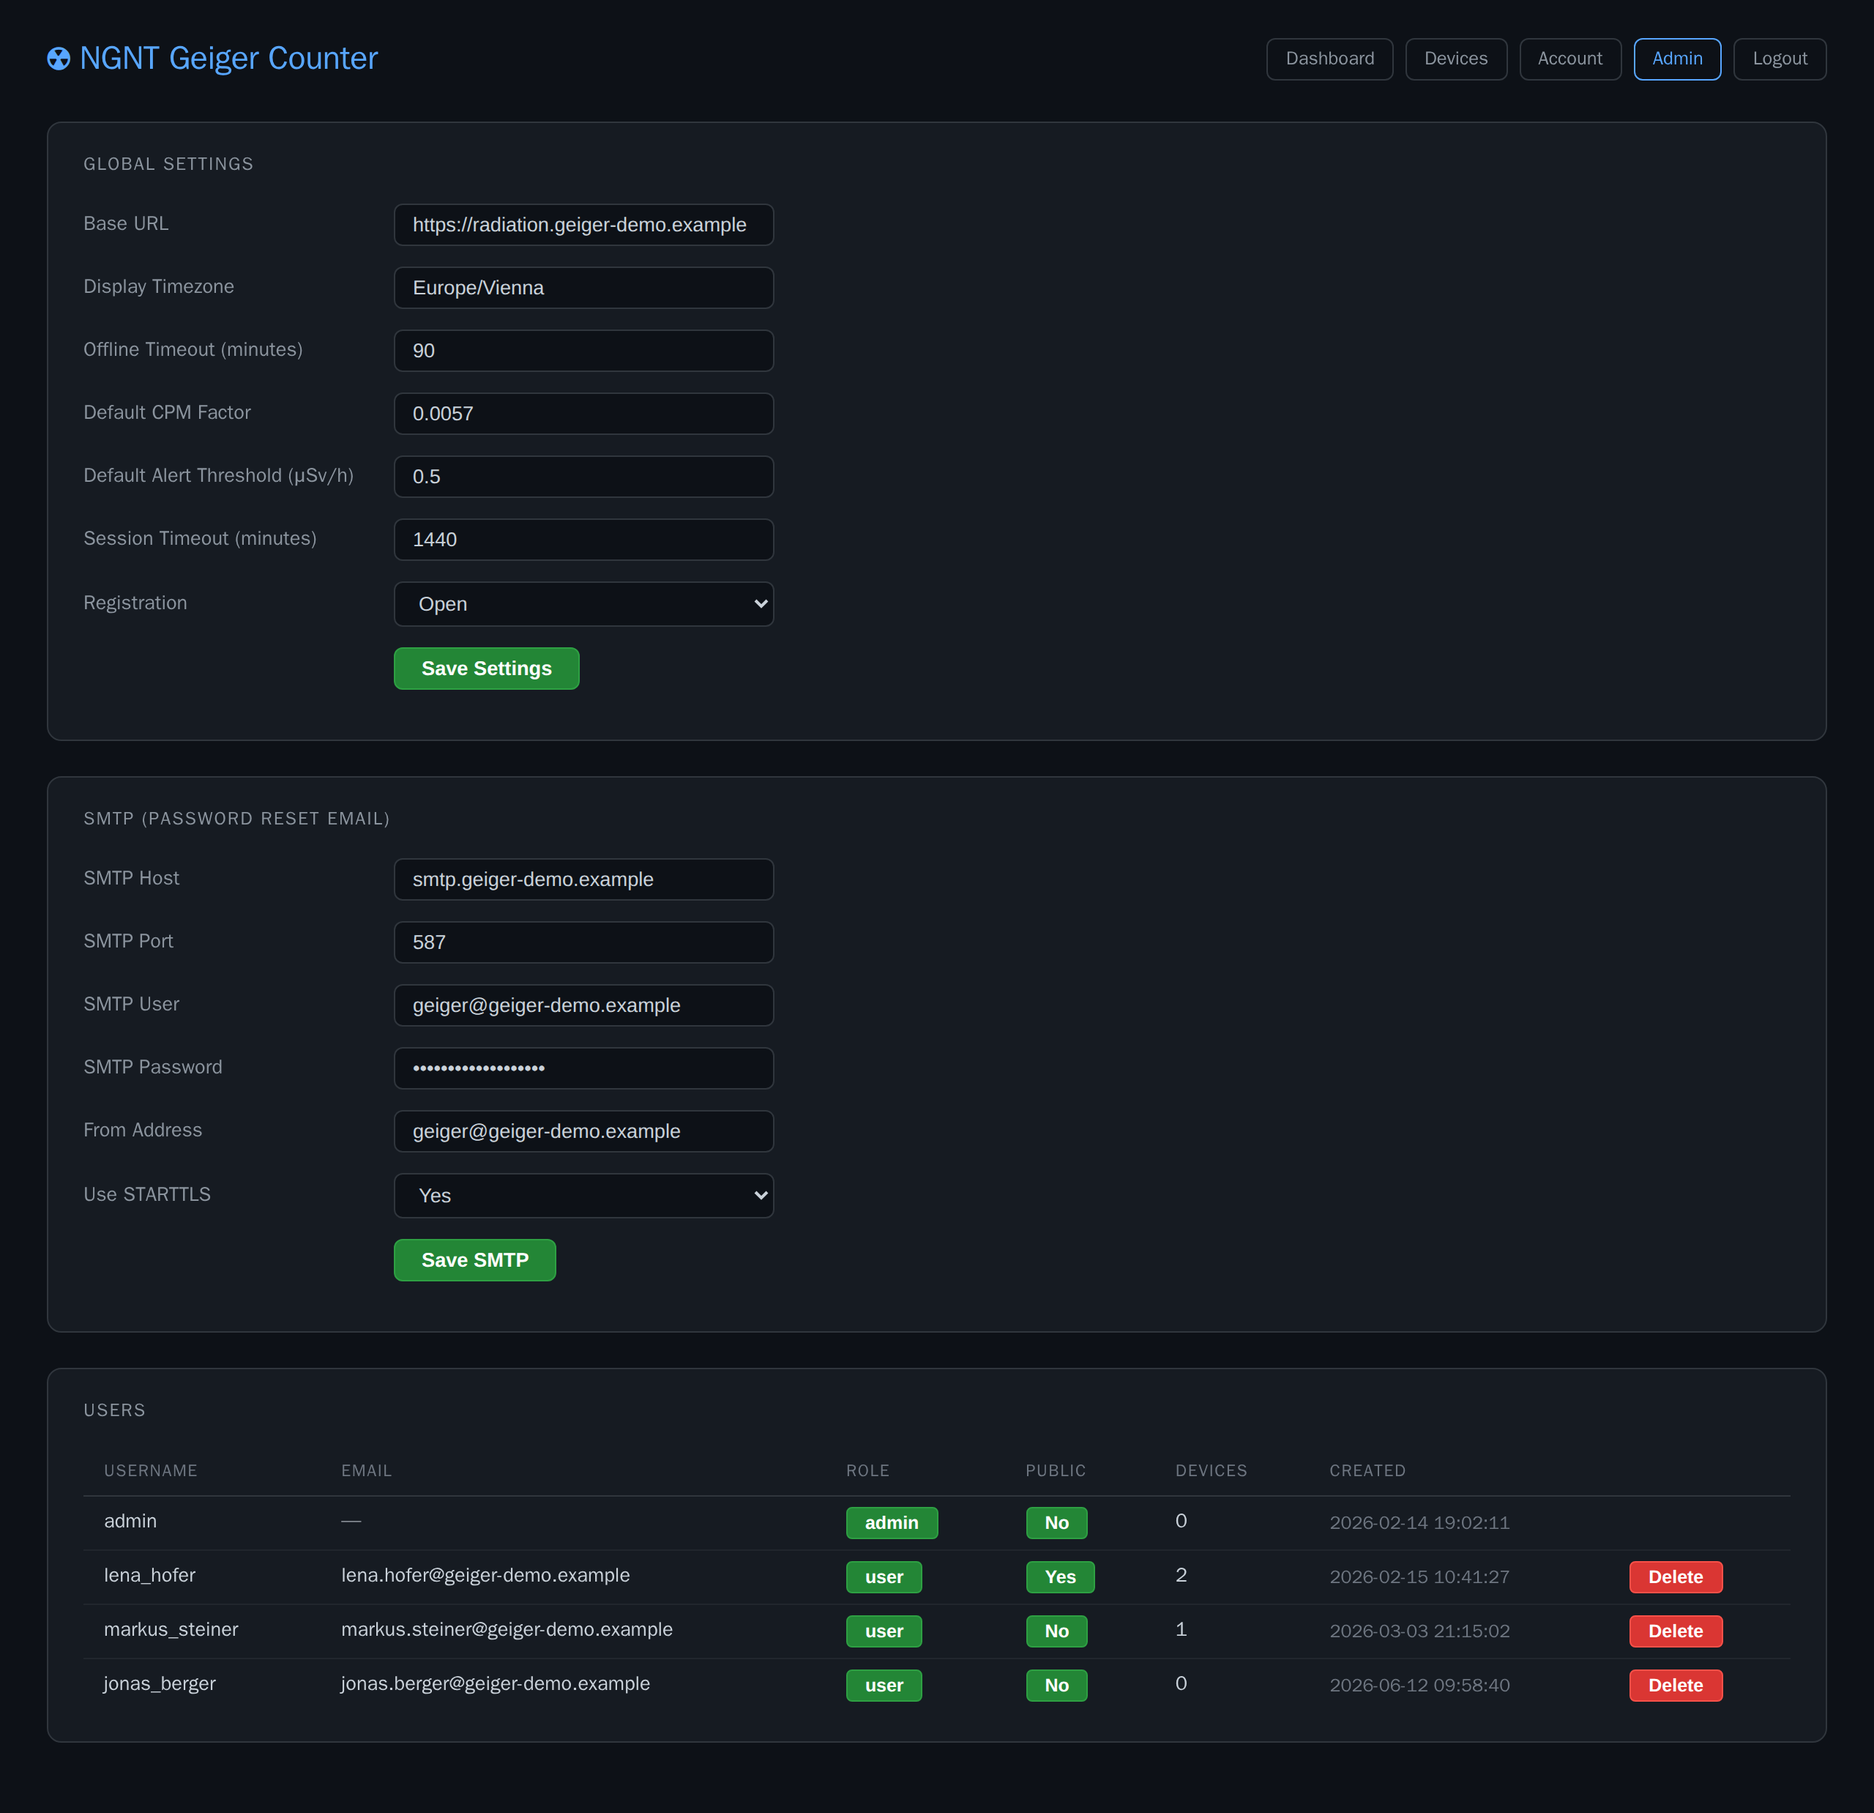
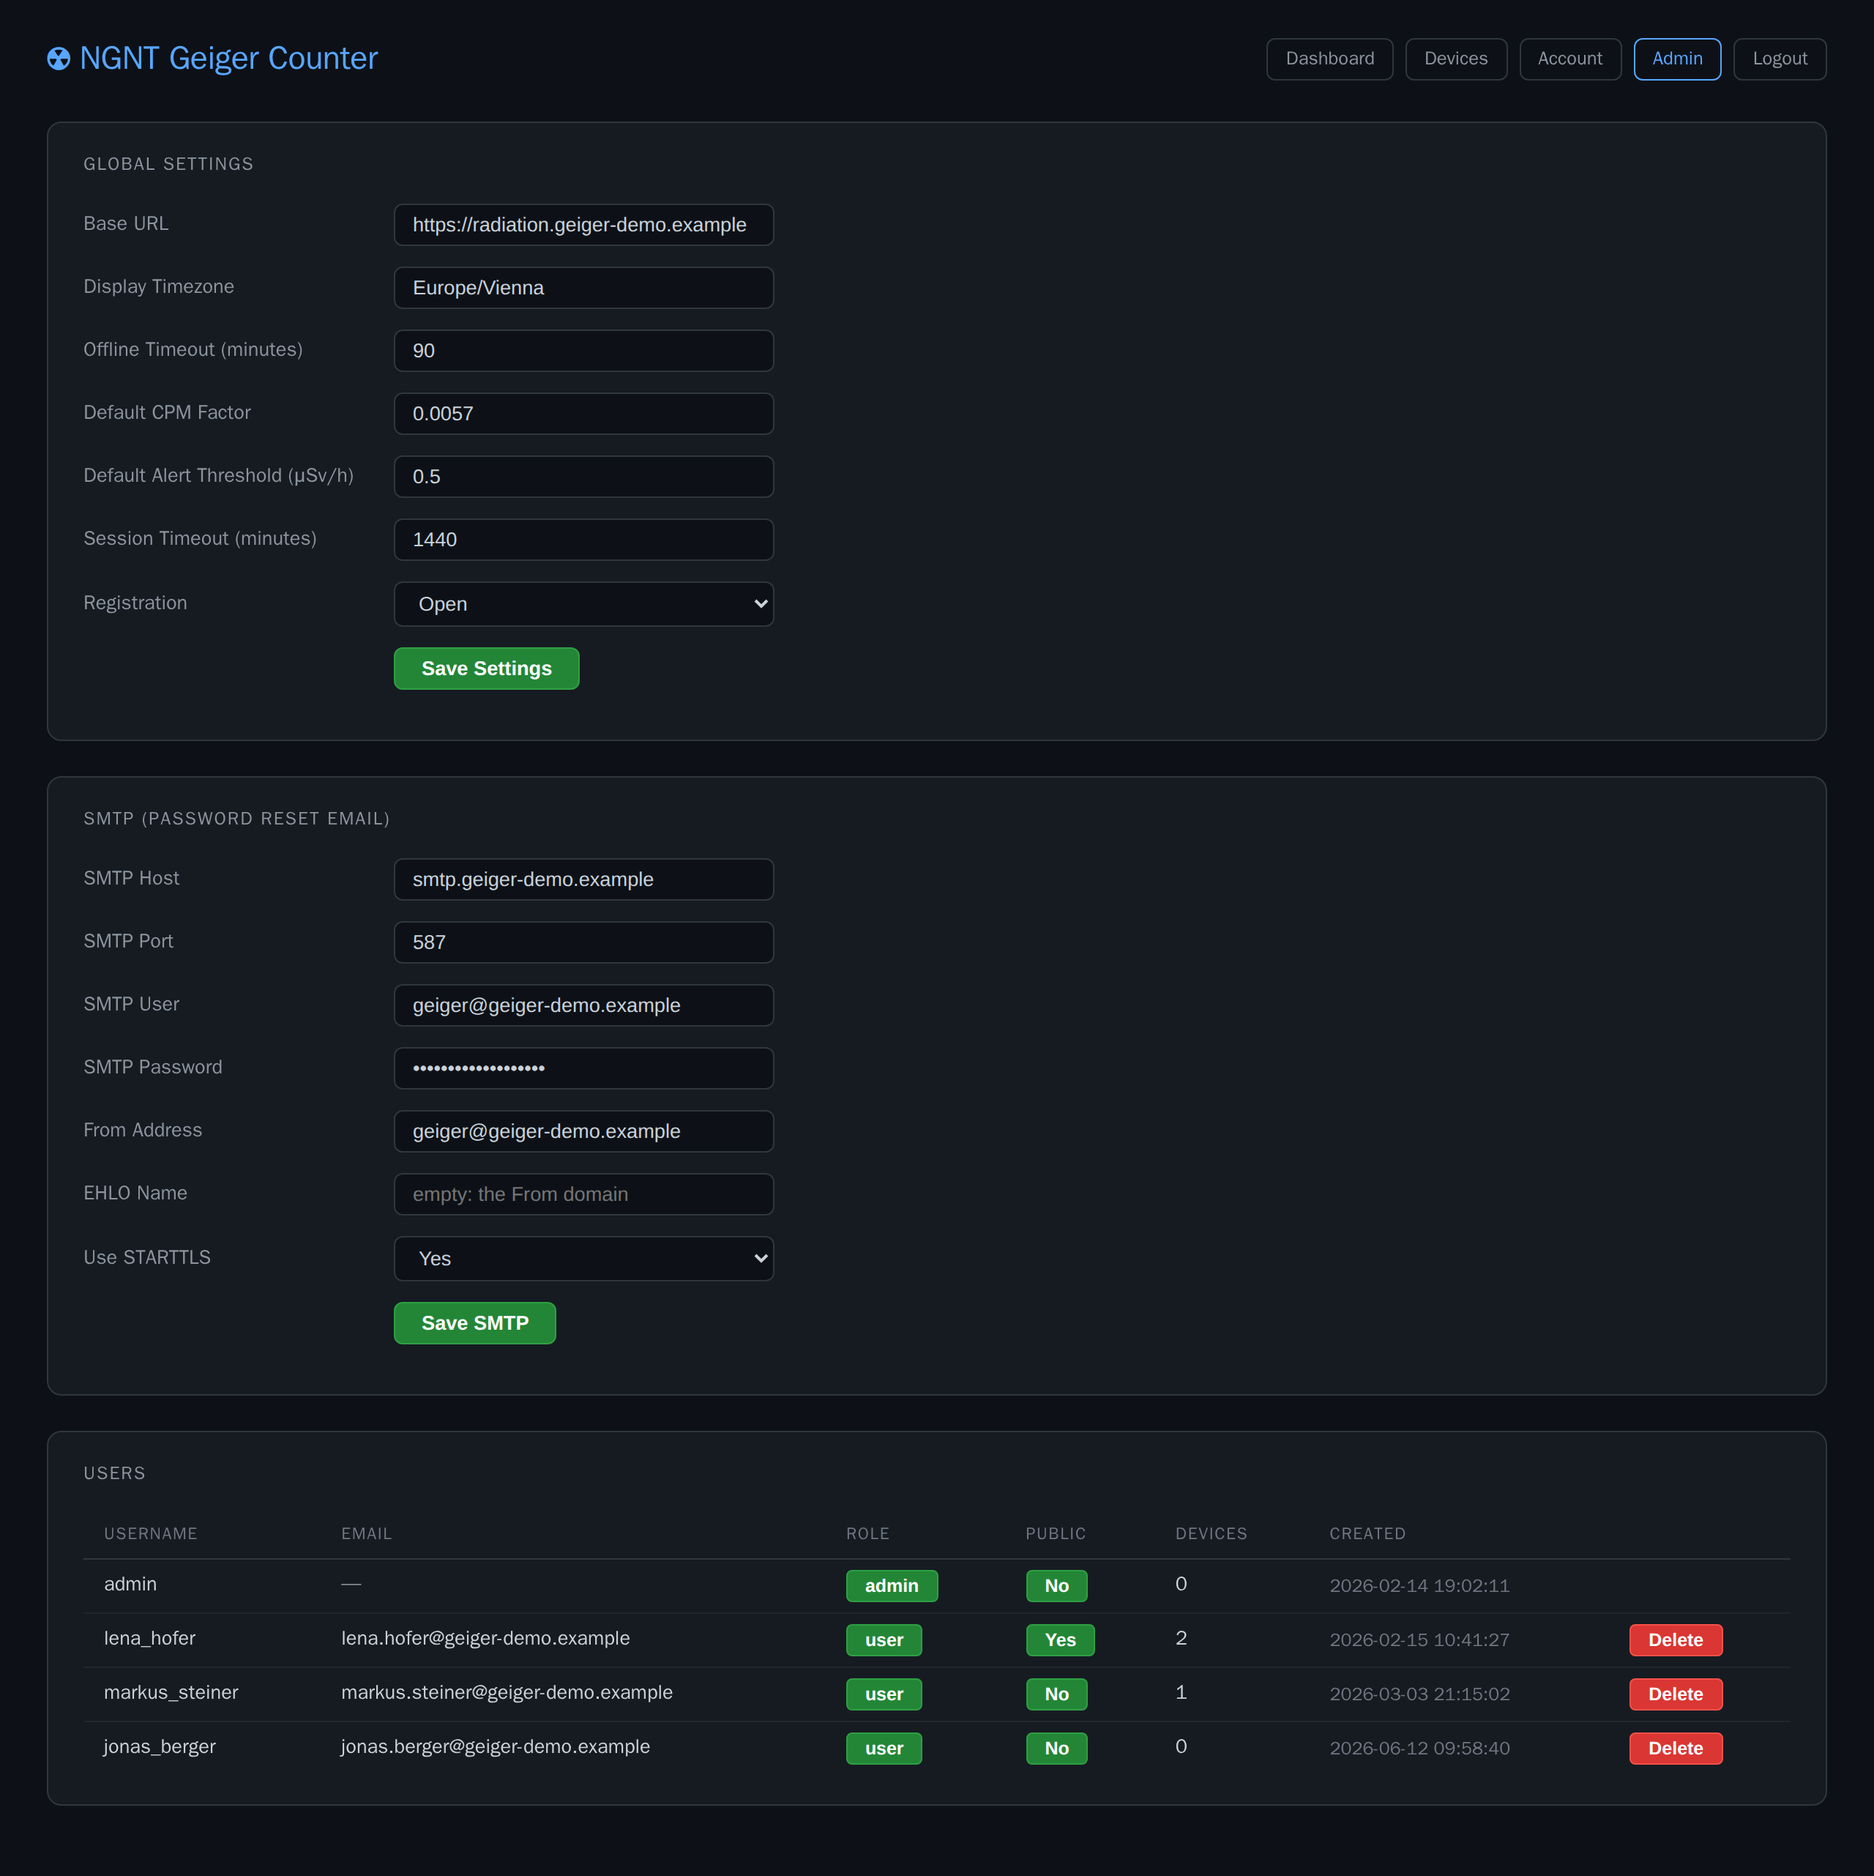
Move the EHLO name from .env to the admin page's SMTP settings
SMTP_EHLO_NAME was the only mail setting outside the database. It is now
the setting smtp_ehlo_name, an EHLO Name field under SMTP on the admin
page (empty: the From domain; letters, digits, dots and hyphens only, so
nothing can be smuggled into the EHLO line). dbinit.sql seeds the row for
a new database, migrate_schema() adds it to an existing one with INSERT
IGNORE. The e2e setup seeds it with the other SMTP settings; the admin
screenshot shows the field.

diff --git a/ngnt-geiger-dockerized/e2e/tests/global.spec.ts b/ngnt-geiger-dockerized/e2e/tests/global.spec.ts
@@ -131,9 +131,12 @@ test('SMTP settings are saved and shown again, the password masked', async ({ op
   )
   await page.getByLabel('SMTP User').fill('mailer')
   await page.getByLabel('SMTP Password').fill('e2e-smtp-secret')
+  await expect(page.getByLabel('EHLO Name')).toHaveAttribute('placeholder', 'empty: the From domain')
+  await page.getByLabel('EHLO Name').fill('mx.geiger-e2e.example')
   await page.getByRole('button', { name: 'Save SMTP' }).click()
   await expect(flash(page)).toHaveText('SMTP settings saved.')
   await expect(page.getByLabel('SMTP User')).toHaveValue('mailer')
+  await expect(page.getByLabel('EHLO Name')).toHaveValue('mx.geiger-e2e.example')
   await expect(page.getByLabel('SMTP Password')).toHaveAttribute('type', 'password')
   for (const [l, v] of Object.entries(before)) await expect(page.getByLabel(l)).toHaveValue(v)
   await expect(page.getByLabel('Use STARTTLS')).toHaveValue('0')
@@ -143,10 +146,16 @@ test('SMTP settings are saved and shown again, the password masked', async ({ op
   await page.getByRole('button', { name: 'Save SMTP' }).click()
   await expect(flash(page)).toHaveText('SMTP Port must be a port number (1-65535).')
   await expect(page.getByLabel('SMTP Port')).toHaveValue(before['SMTP Port'])
+  // It goes into the SMTP EHLO line as is.
+  await page.getByLabel('EHLO Name').fill('mx geiger')
+  await page.getByRole('button', { name: 'Save SMTP' }).click()
+  await expect(flash(page)).toHaveText('EHLO Name may only contain letters, digits, dots and hyphens.')
+  await expect(page.getByLabel('EHLO Name')).toHaveValue('mx.geiger-e2e.example')
 
   // Back to Mailpit without login (setup.ts).
   await page.getByLabel('SMTP User').fill('')
   await page.getByLabel('SMTP Password').fill('')
+  await page.getByLabel('EHLO Name').fill('')
   await page.getByRole('button', { name: 'Save SMTP' }).click()
   await expect(flash(page)).toHaveText('SMTP settings saved.')
 })

diff --git a/ngnt-geiger-dockerized/app/templates/admin.html b/ngnt-geiger-dockerized/app/templates/admin.html
@@ -87,6 +87,12 @@
                    value="{{ settings.get('smtp_from', '') }}">
         </div>
         <div class="form-row">
+            <label for="smtp-ehlo">EHLO Name</label>
+            <input type="text" id="smtp-ehlo" name="smtp_ehlo_name"
+                   value="{{ settings.get('smtp_ehlo_name', '') }}"
+                   placeholder="empty: the From domain">
+        </div>
+        <div class="form-row">
             <label for="smtp-tls">Use STARTTLS</label>
             <select id="smtp-tls" name="smtp_tls">
                 <option value="1"{% if settings.get('smtp_tls', '1') == '1' %} selected{% endif %}>Yes</option>

diff --git a/ngnt-geiger-dockerized/e2e/tests/setup.ts b/ngnt-geiger-dockerized/e2e/tests/setup.ts
@@ -45,6 +45,7 @@ test('admin password, SMTP to Mailpit, shared sessions', async () => {
     smtp_password: '',
     smtp_from: 'geiger@geiger-e2e.example',
     smtp_tls: '0',
+    smtp_ehlo_name: '',
   })
   expect(await smtp.text()).toContain('SMTP settings saved.')
   const settings = await postForm(admin, '/admin', {

diff --git a/ngnt-geiger-dockerized/app/app.py b/ngnt-geiger-dockerized/app/app.py
@@ -100,6 +100,8 @@ def migrate_schema():
         with db.cursor() as cur:
             # v3.0-3.5 wrote every device's MQTT password here in plaintext; nothing read it.
             cur.execute("ALTER TABLE devices DROP COLUMN IF EXISTS mqtt_password")
+            # Settings rows added after dbinit.sql seeded the database (it runs only on a new one).
+            cur.execute("INSERT IGNORE INTO settings (`key`, `value`) VALUES ('smtp_ehlo_name', '')")
     finally:
         db.close()
 
@@ -598,7 +600,7 @@ SETTINGS_KEYS = [
     'session_timeout_minutes',
 ]
 SMTP_KEYS = [
-    'smtp_host', 'smtp_port', 'smtp_user', 'smtp_password', 'smtp_from', 'smtp_tls',
+    'smtp_host', 'smtp_port', 'smtp_user', 'smtp_password', 'smtp_from', 'smtp_tls', 'smtp_ehlo_name',
 ]
 # The admin form's labels, for its error messages.
 SETTING_LABELS = {
@@ -607,7 +609,7 @@ SETTING_LABELS = {
     'default_alert_threshold': 'Default Alert Threshold (\u03bcSv/h)', 'registration_enabled': 'Registration',
     'session_timeout_minutes': 'Session Timeout (minutes)', 'smtp_host': 'SMTP Host', 'smtp_port': 'SMTP Port',
     'smtp_user': 'SMTP User', 'smtp_password': 'SMTP Password', 'smtp_from': 'From Address',
-    'smtp_tls': 'Use STARTTLS',
+    'smtp_tls': 'Use STARTTLS', 'smtp_ehlo_name': 'EHLO Name',
 }
 
 
@@ -621,6 +623,8 @@ def setting_error(key: str, val: str) -> str | None:
         return f'{label} must be a whole number of at least 1.'
     if key == 'smtp_port' and not (re.fullmatch('[0-9]+', val) and 1 <= int(val) <= 65535):
         return f'{label} must be a port number (1-65535).'
+    if key == 'smtp_ehlo_name' and not re.fullmatch('[A-Za-z0-9.-]*', val):
+        return f'{label} may only contain letters, digits, dots and hyphens.'
     if key == 'default_alert_threshold':
         try:
             if float(val) >= 0:

diff --git a/ngnt-geiger-dockerized/tests/test_admin.py b/ngnt-geiger-dockerized/tests/test_admin.py
@@ -82,11 +82,13 @@ def test_save_smtp(admin_client, mock_cursor):
         'smtp_password': 'pass',
         'smtp_from': 'noreply@example.com',
         'smtp_tls': '1',
+        'smtp_ehlo_name': 'mx.example.com',
     })
     assert resp.status_code == 302
-    setting_calls = [sql for sql, _ in mock_cursor.execute_log
+    setting_calls = [params for sql, params in mock_cursor.execute_log
                      if 'INSERT INTO settings' in sql]
-    assert len(setting_calls) == 6  # one per SMTP_KEY
+    assert len(setting_calls) == 7  # one per SMTP_KEY
+    assert ('smtp_ehlo_name', 'mx.example.com') in setting_calls
 
 
 # ── Toggle role ─────────────────────────────────────────────────────────────

diff --git a/ngnt-geiger-dockerized/tests/test_helpers.py b/ngnt-geiger-dockerized/tests/test_helpers.py
@@ -368,11 +368,11 @@ def test_send_reset_email_headers_ehlo_and_verified_tls(monkeypatch):
     assert msg.get_content_type() == 'text/plain'
 
 
-def test_send_reset_email_ehlo_name_from_env(monkeypatch):
+def test_send_reset_email_ehlo_name_from_settings():
     from helpers import send_password_reset_email
-    monkeypatch.setenv('SMTP_EHLO_NAME', 'mx.geiger.example')
     with patch('helpers.smtplib.SMTP') as mock_smtp:
-        assert send_password_reset_email('user@example.com', 'token123', RESET_SMTP)
+        assert send_password_reset_email('user@example.com', 'token123',
+                                         {**RESET_SMTP, 'smtp_ehlo_name': 'mx.geiger.example'})
     assert mock_smtp.call_args.kwargs['local_hostname'] == 'mx.geiger.example'
 
 

diff --git a/ngnt-geiger-dockerized/tests/test_devices.py b/ngnt-geiger-dockerized/tests/test_devices.py
@@ -77,6 +77,8 @@ def test_startup_drops_the_plaintext_password_column(app_instance, mock_cursor):
     import app as app_module
     app_module.migrate_schema()
     assert ('ALTER TABLE devices DROP COLUMN IF EXISTS mqtt_password', None) in mock_cursor.execute_log
+    # An older database gets the settings rows dbinit.sql seeds only on a new one.
+    assert any('INSERT IGNORE INTO settings' in sql and 'smtp_ehlo_name' in sql for sql, _ in mock_cursor.execute_log)
 
 
 def test_add_device_invalid_mac(auth_client, mock_cursor):

diff --git a/ngnt-geiger-dockerized/app/helpers.py b/ngnt-geiger-dockerized/app/helpers.py
@@ -207,7 +207,7 @@ def send_password_reset_email(email: str, token: str, settings: dict) -> bool:
     msg['Message-ID'] = make_msgid(domain=domain)
     msg['Auto-Submitted'] = 'auto-generated'
 
-    ehlo_name = os.environ.get('SMTP_EHLO_NAME') or domain
+    ehlo_name = settings.get('smtp_ehlo_name') or domain
     context = ssl.create_default_context()
     try:
         if smtp_port == 465:

diff --git a/ngnt-geiger-dockerized/tests/testutils.py b/ngnt-geiger-dockerized/tests/testutils.py
@@ -73,6 +73,7 @@ DEFAULT_SETTINGS = {
     'smtp_password': '',
     'smtp_from': '',
     'smtp_tls': '1',
+    'smtp_ehlo_name': '',
 }
 
 

diff --git a/HANDOVER.md b/HANDOVER.md
@@ -186,6 +186,7 @@ Key-value store for runtime settings. `site_name` is an env var (`SITE_NAME`), n
 | `smtp_password` | *(empty)* | Password reset email |
 | `smtp_from` | *(empty)* | Password reset email |
 | `smtp_tls` | `1` | Password reset email |
+| `smtp_ehlo_name` | *(empty)* | Password reset email: EHLO name (empty: the From domain) |
 | `registration_enabled` | `1` | Register route (open/disabled) |
 | `session_timeout_minutes` | `1440` | Session cookie lifetime (admin-configurable) |
 
@@ -218,7 +219,7 @@ Single-file Flask app with all routes. Key components:
 
 **Input validation:** Usernames restricted to `[a-zA-Z0-9_-]` (3-50 chars). User-controlled strings in JS contexts use `|tojson` filter to prevent XSS. Invalid `display_timezone` values fall back to UTC instead of crashing.
 
-**Schema migration:** On startup, `migrate_schema()` applies the schema changes an older `dbinit.sql` lacks (idempotent, every start): it drops `devices.mqtt_password`.
+**Schema migration:** On startup, `migrate_schema()` applies the schema changes an older `dbinit.sql` lacks (idempotent, every start): it drops `devices.mqtt_password` and adds the `settings` rows added since (`INSERT IGNORE`: `smtp_ehlo_name`).
 
 **Admin bootstrap:** On startup, checks if `users` table is empty. If so, creates `admin` user with random password and saves it to `/app/data/admin_initial_password.txt` (mode 0600); the log only says where it is. The file is deleted when the admin changes their password.
 
@@ -257,7 +258,7 @@ Single-file Flask app with all routes. Key components:
 - `login_required`, `admin_required`: decorators checking `session['user_id']` / `session['role']`
 - `derive_mqtt_credentials(mac, pepper)`: HMAC-SHA256 credential derivation matching firmware
 - `provision_device()` / `unprovision_device()`: manage `devices.conf` (Mosquitto `$7$` hashes from `mosquitto_password_hash()`) with file locking (`fcntl.flock`) and `.reload` flag; `hash_legacy_device_passwords()` hashes plaintext lines of older versions on start
-- `send_password_reset_email()`: SMTP using settings from DB (465 = implicit TLS, certificate verified, 10 s timeout); `base_url` from DB settings (empty: nothing sent), `site_name` from `SITE_NAME` env var, EHLO = `SMTP_EHLO_NAME` or the From domain; Message-ID, Date, `Auto-Submitted`; refuses a placeholder From
+- `send_password_reset_email()`: SMTP using settings from DB (465 = implicit TLS, certificate verified, 10 s timeout); `base_url` from DB settings (empty: nothing sent), `site_name` from `SITE_NAME` env var, EHLO = the `smtp_ehlo_name` setting or the From domain; Message-ID, Date, `Auto-Submitted`; refuses a placeholder From
 
 ### `app/templates/`
 

diff --git a/docs/admin-guide.md b/docs/admin-guide.md
@@ -58,9 +58,10 @@ There is no form to create a user: people register themselves. To add someone wh
 | **SMTP Port** | `587` | |
 | **SMTP User**, **SMTP Password** | empty | Leave **SMTP User** empty for a server without login. |
 | **From Address** | empty | `Name <address>` or an address (the name defaults to `SITE_NAME`). Empty: the **SMTP User** is the sender. An address at `example.com`, `.local` or without a dot in the domain sends nothing. |
+| **EHLO Name** | empty | The name the app greets the mail server with (EHLO). Empty: the domain of the sender. Letters, digits, dots and hyphens only. |
 | **Use STARTTLS** | **Yes** | **No** sends without encryption (e.g. a relay on port 25). Port `465` is always implicit TLS. The server certificate is verified. |
 
-To test, enter an email address under **Account**, sign out and use **Forgot password?** with your username. A mail that fails or is not sent is only logged (`docker logs ngnt-geiger-flask`, a line starting `reset mail`); the page shows the same answer either way. The link is valid for one hour. Only users with an email address in their account get one. The app greets the mail server (EHLO) with the domain of the sender; `SMTP_EHLO_NAME` in `.env` sets another name.
+To test, enter an email address under **Account**, sign out and use **Forgot password?** with your username. A mail that fails or is not sent is only logged (`docker logs ngnt-geiger-flask`, a line starting `reset mail`); the page shows the same answer either way. The link is valid for one hour. Only users with an email address in their account get one.
 
 ## Managing users
 

diff --git a/ngnt-geiger-dockerized/e2e/COVERAGE.md b/ngnt-geiger-dockerized/e2e/COVERAGE.md
@@ -147,7 +147,7 @@ no 5xx, no request leaving the stack.
 | Invalid settings refused (empty session/offline timeout locked everyone out / broke the dashboard; text threshold; unknown timezone; over-255 value) | ✅ `global › invalid settings are refused, nothing is saved and nobody is locked out` |
 | Base URL used in the reset mail | ✅ `auth › password reset › mail link sets a new password once; the old one stops working` |
 | SMTP settings saved and shown, password masked, STARTTLS select | ✅ `global › SMTP settings are saved and shown again, the password masked` |
-| SMTP port empty refused (broke every reset mail) | ✅ same |
+| SMTP port empty refused (broke every reset mail); EHLO name saved, placeholder hint, a space refused | ✅ same |
 | SMTP delivery (host, port, from, no TLS) | ✅ `setup` + `auth › password reset › mail link …` (Mailpit) |
 
 ## Hardware
